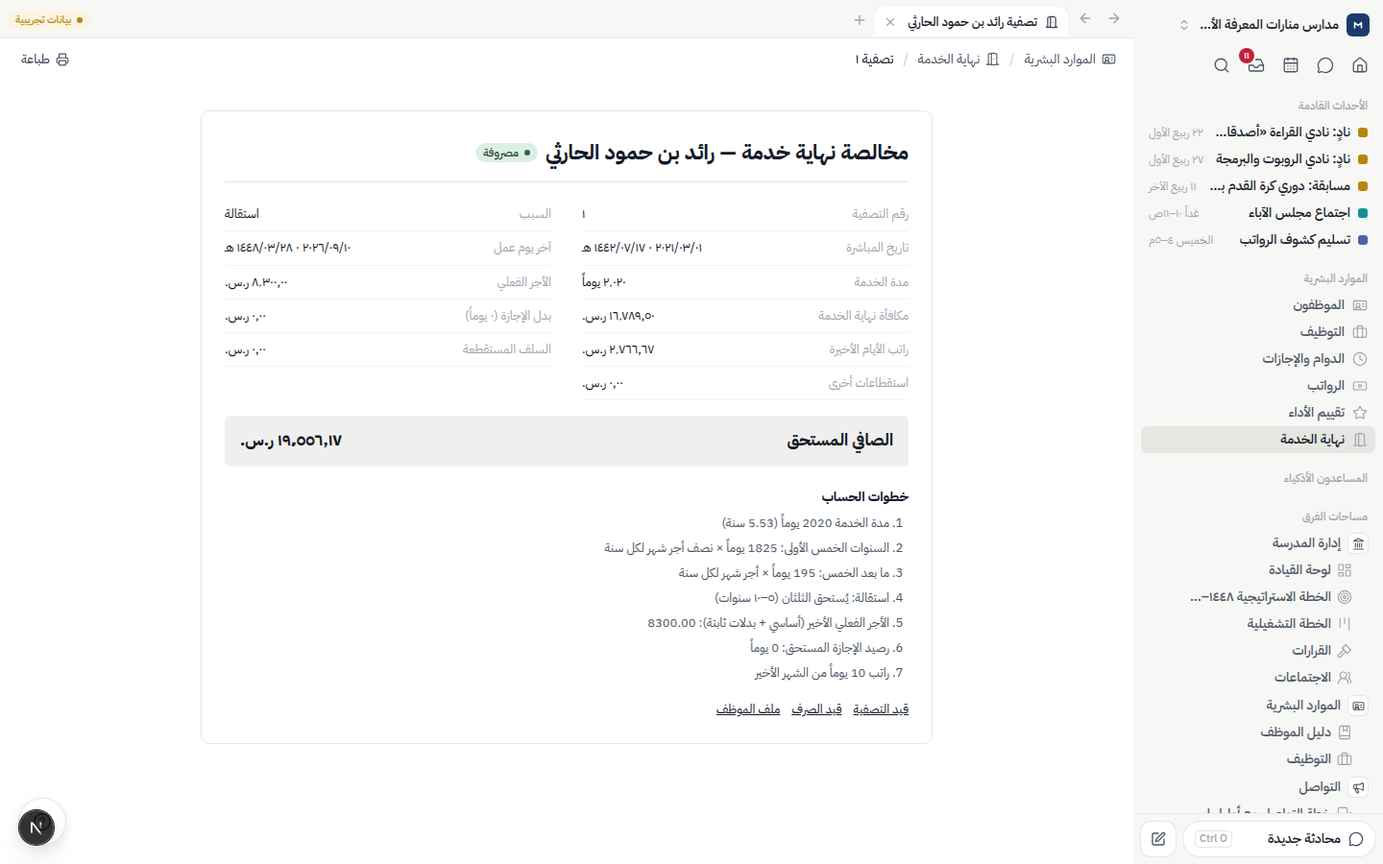
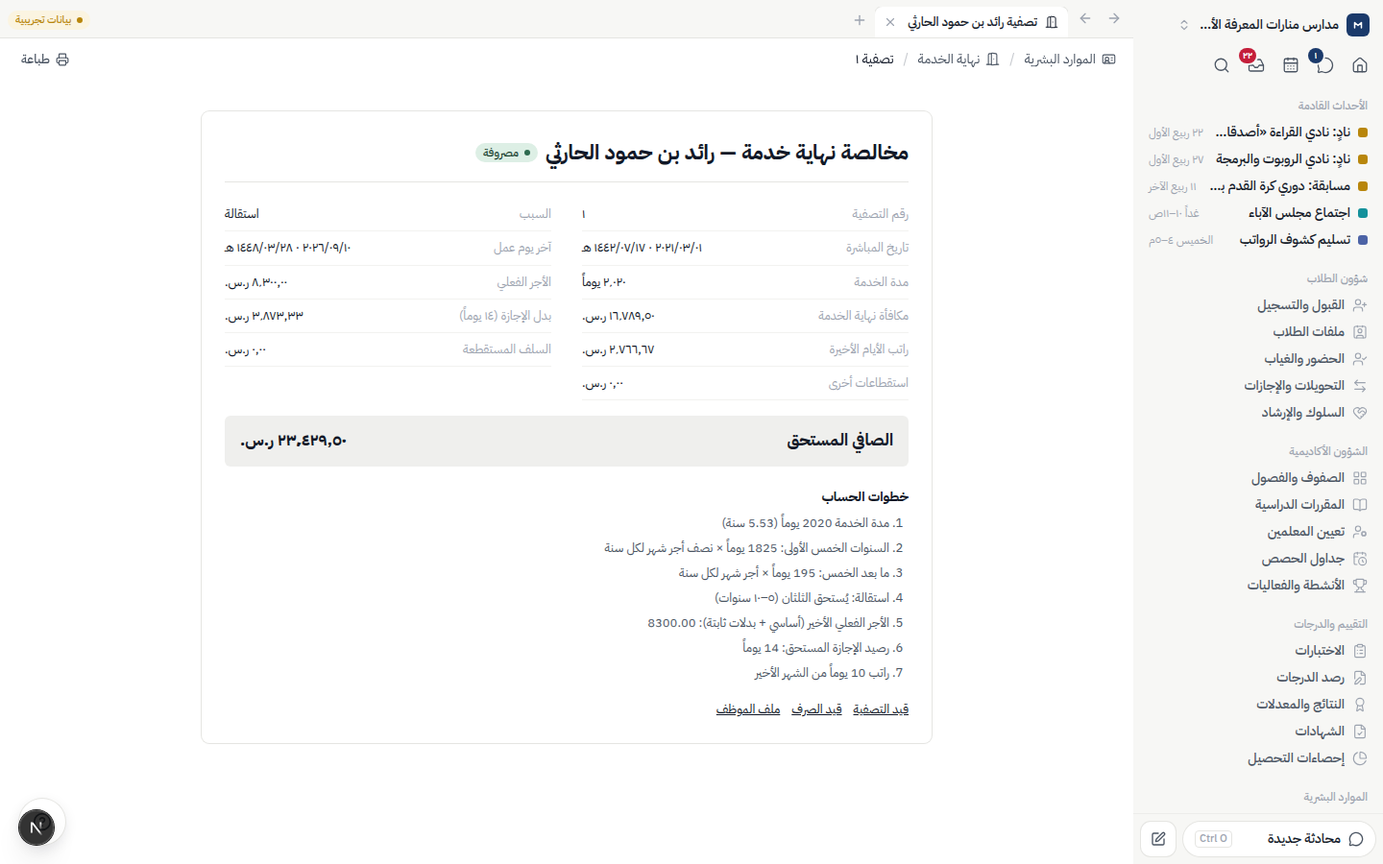
المرحلة ٤: تقرير التسليم واللقطات
Claude-Session: https://claude.ai/code/session_016W11eikQQRUvtjRF9kJ5h5

diff --git a/docs/PHASE4-REPORT.md b/docs/PHASE4-REPORT.md
@@ -1,0 +1,193 @@
+# تقرير تسليم المرحلة ٤ — التقييم والموارد البشرية والرواتب
+
+وفق صيغة التسليم في الجزء ١٧. التاريخ: ٢٩ سبتمبر ٢٠٢٦.
+
+**قواعد التكامل الثلاث المطلوبة:**
+
+| القاعدة | الحالة | الدليل |
+|---|:-:|---|
+| اعتماد الدرجات ← النشر في الموعد المحدد ← الحجب عند المديونية | ✅ | `tests/integration/phase4.test.ts` (الاختبار الثاني) و`tests/e2e/phase4.spec.ts` |
+| اعتماد المسير ← قيد محاسبي ← ملف البنك ← القسائم | ✅ | اختبار «المسير» في التكامل وE2E |
+| ترك الموظف ← تسوية الإجازة والمستحقات ← إيقاف الحساب ← إعادة إسناد المهام | ✅ | اختبار «نهاية الخدمة» في التكامل |
+
+## ١. ما بُني وما لم يُبنَ
+
+تظهر في الشريط الجانبي مجموعتان جديدتان حسب الصلاحية:
+- **«التقييم والدرجات»:** الاختبارات، رصد الدرجات، النتائج والمعدلات، الشهادات، إحصاءات التحصيل. ولولي الأمر والطالب «النتائج والشهادات» فقط.
+- **«الموارد البشرية»:** الموظفون، التوظيف، الدوام والإجازات، الرواتب، تقييم الأداء، نهاية الخدمة. ولكل موظف «خدماتي الوظيفية».
+
+### ضمانات مفروضة في قاعدة البيانات
+
+| الضمان | كيف |
+|---|---|
+| **الدرجة المعتمدة مقفلة** | مشغّل على جدول الدرجات يرفض الإضافة والتعديل والحذف لأي بند معتمد، حتى من العميل الجذري. التعديل الوحيد الممكن عبر «طلب تعديل» يعتمده المدير، فيُطبَّق في معاملة تفتح القفل لها وحدها، ويُسجَّل في التدقيق بإجراء OVERRIDE مع القيمتين القديمة والجديدة. |
+| **الدرجة ضمن حدودها** | مشغّل يرفض درجة سالبة أو أعلى من العظمى، إضافة إلى التحقق الفوري في الواجهة والخدمة. |
+| **لا مبالغ سالبة في الرواتب والعقود** | قيود CHECK على سطور المسير والعقود. |
+| **لا float** | الدرجات بالأعشار، والنسب بنقاط الأساس، والمبالغ بالهللة، والإضافي بالدقائق. كلها بعمليات صحيحة وتقريب نصف للأعلى. |
+| **القيود من المحرك** | قيود الرواتب والسلف ونهاية الخدمة كلها عبر محرك القيود من المرحلة ٣، فتبقى متوازنة وغير قابلة للتعديل وتحترم الفترات المقفلة. |
+
+### التقييم (الأجزاء ١١–١٥)
+
+| القسم | ما يعمل |
+|---|---|
+| **الاختبارات** | دورات اختبار (يومي، شهري، منتصف فصل، نهائي) لصفوف وفرع، تغذي مكوّن التقييم المقابل. **جدولة تلقائية** من خطة كل صف: المواد الثقيلة أولاً، مع استبعاد مواد النشاط، وجلستان يومياً إن زادت المواد عن الأيام. **لجان تلقائية** تملأ القاعات حسب سعتها، **بتوزيع متداخل للصفوف** (لا يتجاور طالبان من صف واحد)، وأرقام جلوس، ومراقبين بالتناوب يصلهم إشعار. تعديل اللجنة (القاعة والمراقبون). كشف اللجنة للطباعة. **محضر المراقبة** للغياب والمخالفات، ولا يرفعه إلا مراقبو اللجنة أو الإدارة. **توليد كشوف الرصد** من الجلسة لكل فصل بمعلم مادته، مع تعبئة «غائب» آلياً من المحاضر. |
+| **رصد الدرجات** | كشف (فصل × مادة × فصل دراسي) بجدول **كالإكسل**: الأسهم وEnter للتنقل، **لصق كتلة من Excel**، و«غ» للغائب و«ع» للغياب بعذر، مع **تحقق فوري** من العظمى (الخلية تحمر وتشرح)، وحفظ تلقائي بعد توقف الكتابة. درجة المادة تُحسب حيّة. تصدير CSV. **مسار الاعتماد:** المعلم يرسل (لا إرسال قبل اكتمال الرصد) ← رئيس القسم يراجع ← الوكيل يعتمد فيُقفل البند، أو يُعاد للمعلم بسبب مكتوب. «بانتظار قراري» لرئيس القسم والوكيل. **طلب تعديل** درجة معتمدة يُعتمد من المدير، أو من الوكيل إن كان المدير هو الطالب. **تحليل البند:** المتوسط، الوسيط، الانحراف، معامل السهولة، معامل التمييز (أعلى ٢٧٪ مقابل أدنى ٢٧٪)، والمدرج التكراري. |
+| **المعدلات** | نظام تقييم لكل مرحلة (أو افتراضي): مكونات بأوزان مجموعها ١٠٠، وتقديرات بحدودها ونقاطها، ودرجة النجاح، وأقصى مواد للدور الثاني، وطريقة العرض (نسبة، حروف، نقاط). درجة المادة متوسط موزون للمكونات، والمكوّن غير المرصود يُعاد توزيع وزنه ويُعلَّم «ناقصاً». **فصلي وتراكمي** للعام، والنتيجة: ناجح، دور ثانٍ، راسب، غير مكتمل. **الترتيب** تنافسي (١، ٢، ٢، ٤) على الفصل والصف والمدرسة. خيار «المعتمد فقط». |
+| **الشهادات** | **مصمم قوالب بالسحب:** ترتيب الكتل وإظهارها (الترويسة، بيانات الطالب، الدرجات، المكونات، الملخص، الحضور، الملاحظات، التواقيع والختم برفع صورة، رمز التحقق) مع معاينة حيّة. **إصدار جماعي** للفصل، لا يتم إلا بعد اعتماد كل الدرجات، بلقطة ثابتة ورمز تحقق فريد. نوعان: «شهادة نهاية الفصل» و«تقرير متابعة» أثناء الفصل. **طباعة جماعية**، كل شهادة في صفحة، و«حفظ PDF» من المتصفح. **رمز QR** يفتح صفحة تحقق عامة بلا دخول وبأقل البيانات. **النشر:** المدير يحدد تاريخ الإتاحة (مع إشعار الأسر). قبله يرى ولي الأمر «تُتاح في…»، وبعده يراها، إلا من عليه **مستحقات متأخرة** مع تفعيل الحجب، فتظهر «محجوبة» مع رابط الفواتير. |
+| **الإحصاءات** | توزيع التقديرات، المدرج التكراري للمعدلات، مقارنة الفصول والمواد (رسم وجدول بديل)، مقارنة المعلمين، الطلاب المتعثرون (حد قابل للضبط أو رسوب في مادة)، والمتفوقون. تصفية بالصف والفرع. |
+
+### الموارد البشرية والرواتب (الأجزاء ١٦–٢٠)
+
+| القسم | ما يعمل |
+|---|---|
+| **ملف الموظف** | البيانات الشخصية، والهوية/الإقامة **مشفّرة** ببصمة بحث (فحص التكرار وصيغة ١/٢). المؤهلات، البنك، و**الآيبان بفحص MOD-97**. الكفيل، الوردية، التأمينات. العقد وهيكل الراتب (العقد الجديد يُنهي السابق ويبقى السجل). أرصدة الإجازات، حضور الشهر، السلف، التقييمات، القسائم. ربط بحساب الدخول. الراتب والآيبان يظهران لموظفي الرواتب وللموظف نفسه فقط. |
+| **الهيكل التنظيمي** | شجرة أقسام بفئة (تعليمية/إدارية/خدمات، تحدد حساب مصروف الرواتب)، ومركز تكلفة، ورئيس قسم، ومسميات بشواغرها (المشغول/المعتمد). **مخطط الارتباط الإداري** شجرة قابلة للطي، مع منع الحلقات. |
+| **تنبيهات الوثائق** | الهويات والإقامات والجوازات والعقود المنتهية أو القريبة (مهلة قابلة للضبط). تنبيه يومي للموارد البشرية من `POST /api/cron/hr`. |
+| **التوظيف** | وظائف شاغرة، و**لوحة كانبان** للمرشحين بالسحب (تقديم ← فرز ← مقابلة ← عرض ← تعيين/استبعاد). تقييم بالنجوم، موعد المقابلة، الراتب المعروض. **التعيين** ينشئ ملف الموظف وعقده (مع فترة تجربة ٩٠ يوماً)، ويغلق الوظيفة عند اكتمال شواغرها. |
+| **الدوام** | ورديات بأيام العمل ومهلة السماح. حضور اليوم بتعديل مباشر، وتحضير الباقين. **استيراد ملف البصمة CSV** مع احتساب التأخر والإضافي من الوردية. تسجيل ذاتي للحضور والانصراف. سجل شهري بالرموز مع مجاميع الغياب والتأخر والإجازات. |
+| **الإجازات** | ٨ أنواع افتراضية (سنوية، مرضية، اضطرارية، زواج، وفاة، وضع، حج، بدون راتب) قابلة للتعديل. **الأرصدة السنوية آلياً:** السنوية ٢١ يوماً و٣٠ بعد خمس سنوات، مع ترحيل. الطلب يحتسب أيام العمل فقط، ويمنع التداخل وتجاوز الرصيد. الموافقة من **المدير المباشر ثم الموارد البشرية**. عند الاعتماد يُخصم الرصيد وتُسجَّل الأيام «في إجازة». الإلغاء يعيد الرصيد. **غير المدفوعة تُخصم في المسير.** |
+| **الرواتب** | **مسير شهري:** مسودة ← إعادة احتساب ← رفع ← مراجعة مدير الموارد البشرية ← اعتماد المدير ← **قيد آلي** ← صرف. الاحتساب: الأساسي والبدلات (مع الاستحقاق الجزئي لمن عُيّن أثناء الشهر)، والإضافي، والمكافآت، و**التأمينات** (حصة الموظف السعودي ومنشأته، وحصة المنشأة عن غير السعودي، بسقف)، والغياب والإجازة غير المدفوعة بأجر اليوم، والتأخر بعد مهلة شهرية، وأقساط السلف والجزاءات **بسقف نصف الأجر**، و**مخصص نهاية الخدمة** الشهري. **القيد:** مدين رواتب الفئة ومركز التكلفة، والبدلات والتأمينات والمخصص؛ دائن رواتب مستحقة، وتأمينات مستحقة، وذمم الموظفين، ومخصص نهاية الخدمة. **الصرف:** قيد البنك. **ملف حماية الأجور** CSV. **قسيمة الراتب** مطبوعة للموظف نفسه بعد الاعتماد. **السلف:** طلب ← اعتماد ← صرف بقيد، ثم الاستقطاع التلقائي. **البنود المتغيرة:** مكافأة، بدل، إضافي بالساعات، جزاء، استقطاع، وتُقفل بعد رفع المسير. |
+| **تقييم الأداء** | نماذج بمعايير موزونة، ودورات تُنشئ تقييماً لكل موظف نشط يقيّمه مديره المباشر. تقييم ذاتي بالأهداف ونسب إنجازها، ثم اعتماد المدير (١–٥ ← نسبة وتقدير). الموظف لا يرى درجات مديره قبل الاعتماد. توزيع التقديرات للدورة وإغلاقها. |
+| **نهاية الخدمة** | **حاسبة** قبل الحفظ بخطواتها: المكافأة (المادتان ٨٤ و٨٥)، بدل رصيد الإجازة المستحق حتى آخر يوم، راتب الأيام الأخيرة إن لم يشملها مسير، ناقص السلف والعهد (بسقف المستحقات). الاعتماد من الموارد البشرية ثم المدير، ثم قيد يأخذ من **المخصص أولاً** والباقي مصروف، ثم **إنهاء الخدمة**: حالة الموظف، العقد، **إيقاف حساب الدخول وإبطال جلساته**، و**إعادة إسناد** مواد التدريس وريادة الفصول وخطوات الموافقة المعلقة والمهام للمدير المباشر، مع سجل تدقيق. الصرف بقيد بنك، ومخالصة مطبوعة. لوحة **الالتزام الحالي مقابل المخصص في الدفاتر**. |
+| **الخدمة الذاتية** | لكل موظف: تسجيل الحضور والانصراف، أرصدة الإجازات وطلبها وإلغاء المعلّق، ملخص الشهر، قسائم الراتب، وطلب سلفة. |
+
+### ما لم يُبنَ أو يعمل بحدود (بصراحة)
+
+| البند | الوضع الحالي |
+|---|---|
+| **ملف حماية الأجور** | CSV بحقول عامة (الهوية، الاسم، الآيبان، رمز البنك، الأساسي، السكن، البدلات، الاستقطاعات، الصافي). لكل بنك صيغة SIF خاصة. يلزم تحديد بنككم لمطابقة صيغته. |
+| **الربط مع «مدد» و«التأمينات» و«قوى» و«مقيم»** | لا ربط مباشر. التأمينات تُحتسب بالنسب المضبوطة، والوثائق تُدخل يدوياً. |
+| **جهاز البصمة** | استيراد ملف CSV فقط، دون ربط مباشر بالجهاز. |
+| **الإضافي من البصمة** | يُسجَّل للاسترشاد فقط. الذي يدخل الراتب هو الساعات المعتمدة في «البنود المتغيرة»، قرار مقصود حتى لا يُصرف إضافي غير معتمد. |
+| **الغياب في الراتب** | تُخصم أيام «غائب» المسجلة صراحة فقط. اليوم بلا سجل لا يُعدّ غياباً. |
+| **العطل الرسمية** | لا تقويم عطل مرتبط بالدوام أو الجدولة. تُسجَّل العطلة يدوياً (كما في اليوم الوطني بالبيانات)، والجدولة التلقائية لا تتجنبها. |
+| **PDF** | الشهادات والقسائم والمخالصة تُطبع من المتصفح («حفظ PDF»)، دون توليد على الخادم ولا إرسال بالبريد. |
+| **أغسطس** | مقفل محاسبياً منذ المرحلة ٣، فراتبه قيد إجمالي من «النظام السابق». أول مسير على المنصة هو سبتمبر. |
+| **النتيجة التراكمية** | متوسط متساوٍ للفصول، دون أوزان مختلفة للفصول. |
+| **الدور الثاني** | تُحدَّد النتيجة، ولا توجد شاشة لاختبارات الدور الثاني ورصدها بعد. |
+| **ترقية الراسبين عند إنهاء العام** | الخدمة تقترح الراسبين (`retainSuggestions`)، ولم تُربط بعد بمعالج إنهاء العام من المرحلة ٢. |
+| **بطاقة المقعد** | يوجد كشف اللجنة للطباعة، دون ملصقات مقاعد منفصلة. |
+
+## ٢. التشغيل والبيانات التجريبية
+
+خطوات التشغيل كما في [README.md](../README.md): `npm run db:deploy` ثم `npm run db:seed` ثم `npm run dev`.
+- أُضيف ترحيلان: `20261001090000_phase4_assessment_hr_payroll` (الجداول ومشغّلات القفل والحدود) و`20261001100000_payroll_journal_sources`.
+- المهمة اليومية للموارد البشرية: `POST /api/cron/hr` مع `Authorization: Bearer $CRON_SECRET`.
+
+**الحسابات وكلمة المرور:** كلمة المرور لكل الحسابات `Manassa@2026`، والرمز الثنائي من `npm run demo:totp`.
+
+| الحساب | ما يجربه |
+|---|---|
+| `teacher@demo.manassa.sa` | معلم رياضيات ورئيس قسمها: كشوفه (منها اختبار قصير مسودة ليرصده)، وكشفان «بانتظار قراره» كرئيس قسم، و«خدماتي الوظيفية» (لم يسجل حضور اليوم ليجربه)، وقسيمة سبتمبر، وإجازة معلّقة عند مديره. |
+| `vp.academic@demo.manassa.sa` | وكيلة البنات: اعتماد درجات فرعها (بعضها بانتظارها)، والنتائج، والإحصاءات، وموافقات إجازات معلمات البنات. |
+| `principal@demo.manassa.sa` (ثنائية) | اعتماد درجات البنين، وطلب تعديل درجة معلّق، والشهادات والقوالب والنشر، والاختبارات واللجان، والموافقات النهائية للمسير ونهاية الخدمة. |
+| `hr.manager@demo.manassa.sa` (ثنائية) | كل الموارد البشرية والرواتب، وموافقات الإجازات والسلف وتصفية معلّقة. |
+| `hr@demo.manassa.sa` | إدخال الموظفين والحضور والبنود والمسيرات، دون اعتماد. |
+| `accountant@demo.manassa.sa` (ثنائية) | قيد مسير سبتمبر في دفتر اليومية، وإشعار «بانتظار الصرف». |
+| `parent@demo.manassa.sa` | أسرة «القرني»: تقريرا متابعة متاحان، وثالث **محجوب** لأن على الابن مستحقات متأخرة. |
+
+**البيانات** (وهمية، ومولَّدة **عبر الخدمات نفسها**، فكل موافقة وقيد فيها مرّ بالمسار الحقيقي):
+
+| البند | العدد |
+|---|---|
+| الهيكل | ٩ أقسام بشجرة و١٨ مسمى، ووردیتان |
+| الموظفون | ٥٧ نشطاً (٤٦ سعودياً)، بينهم معلمون متعاقدون وسائقون وحراس وعمال نظافة بلا حسابات دخول. العقود والآيبانات صالحة، و٥ وثائق منتهية أو قريبة الانتهاء |
+| التوظيف | ٣ وظائف (واحدة معلّقة) و١٠ مرشحين بالمراحل، وتعيين فعلي في ١٤ سبتمبر بعقد وآيبان |
+| الحضور | سبتمبر كاملاً مستورداً من «البصمة»: نحو ١١٠٠ سجل، منها ١٩ غياباً و٣٨ تأخراً، واليوم الوطني عطلة |
+| الإجازات | ٦ طلبات: ٣ معتمدة (منها بدون راتب تُخصم)، واحدة عند الموارد البشرية، واثنتان عند المدير المباشر |
+| السلف والبنود | سلفة معتمدة مصروفة بقيد يُستقطع قسطها، وسلفة بانتظار الاعتماد. ٦ بنود متغيرة (مكافآت، بدل، ١٠ ساعات إضافي، جزاء، استقطاع عهدة) |
+| مسير سبتمبر | ٥٧ موظفاً: إجمالي ٥١٤٬١٩٥ ر.س، صافٍ ٤٦٦٬٨٤٨ ر.س. مرّ بالمراجعة والاعتماد وله قيد آلي متوازن، وبانتظار صرف المحاسب |
+| نهاية الخدمة | استقالة معتمدة ومصروفة (أُوقف حساب صاحبها وأُعيد إسناد مهامه)، وانتهاء عقد بانتظار الاعتماد |
+| الأداء | دورة سنوية سابقة مكتملة ومغلقة، ودورة جارية (تقييمات ذاتية ويُكمل المديرون بعضها) |
+| الاختبارات | «اختبارات الفترة الأولى»: ٩٩ جلسة، ١٧ لجنة، ٢٨٩ رقم جلوس، ومحاضر مراقبة بغياب ومخالفات |
+| الدرجات | نحو ٩٧٠ بند تقييم بدرجات كل الطلاب. ٩٤٪ معتمدة، والبقية موزعة بين مسودة ومرسلة ومراجعة. طلب تعديل مطبّق (OVERRIDE في التدقيق) وآخر معلّق |
+| الشهادات | ١٦ فصلاً بتقارير متابعة، منشورة للأسر مع حجب المتأخرين |
+
+## ٣. الشاشات مقابل قائمة الجزء ١٤
+
+| البند | الحالة | الدليل |
+|---|:-:|---|
+| الاتجاه RTL والأيقونات | ✅ | كل اللقطات |
+| الألوان من المتغيرات فقط | ✅ | الحالات من لوحة الوسوم، والرسوم من `--chart-1/2`، والتحذير والخطر من رموزها |
+| كل قائمة: بحث، تصفية، فارغ، تحميل، خطأ | ✅ | الموظفون بحث وتصفية بالحالة والفئة. الكشوف والنتائج والإحصاءات بتصفية الفصل والصف والفرع والفترة. كل شاشة لها حالة فارغة بإرشاد وهيكل تحميل ورسالة صلاحية |
+| لا شاشات فارغة ولا أزرار ميتة | ✅ | كل زر يعمل. حالات «لم يُحدد النشر» و«لا عقد» و«حسابك غير مرتبط بملف موظف» مشروحة |
+| الوضع الداكن | ✅ | [25](screenshots/phase4/25-payroll-run-dark.png) [35](screenshots/phase4/35-stats-dark.png) |
+| الجوال | ✅ | [24](screenshots/phase4/24-employees-mobile.png) [36](screenshots/phase4/36-results-mobile.png). الجداول العريضة (الرصد، المسير، السجل الشهري) تتمرر داخل إطارها عمداً، مع تثبيت عمود الطالب |
+| الأرقام والتواريخ بتفضيل المستخدم | ✅ | الدرجات والنسب والمبالغ بتفضيل الأرقام، والتواريخ بالهجري مع الميلادي |
+| إمكانية الوصول | ✅ | الجدول `role=grid` وتسمية كل خلية (الطالب — البند)، و`aria-invalid` للقيمة الخاطئة، وحالة الحفظ بإعلان حيّ، والتقييم بالنجوم وسلّم ١–٥ مجموعات راديو، وبديل جدولي لكل رسم |
+
+اللقطات (`docs/screenshots/phase4/`):
+1. [كشوف الرصد وبانتظار قراري](screenshots/phase4/01-grade-sheets.png)
+2. [جدول الرصد](screenshots/phase4/02-grade-grid.png)
+3. [الاختبارات](screenshots/phase4/03-exams.png)
+4. [خدماتي الوظيفية](screenshots/phase4/04-self-service.png)
+5. [قسيمة الراتب](screenshots/phase4/05-payslip.png)
+6. [الموظفون](screenshots/phase4/06-employees.png)
+7. [ملف الموظف](screenshots/phase4/07-employee-profile.png)
+8. [مخطط الارتباط الإداري](screenshots/phase4/08-org-chart.png)
+9. [تنبيهات الوثائق](screenshots/phase4/09-document-alerts.png)
+10. [لوحة التوظيف](screenshots/phase4/10-recruitment-kanban.png)
+11. [حضور اليوم](screenshots/phase4/11-staff-attendance.png)
+12. [السجل الشهري](screenshots/phase4/12-attendance-month.png)
+13. [طلبات الإجازة](screenshots/phase4/13-leave-requests.png)
+14. [المسيرات](screenshots/phase4/14-payroll-runs.png)
+15. [مسير سبتمبر](screenshots/phase4/15-payroll-run.png)
+16. [البنود المتغيرة](screenshots/phase4/16-payroll-adjustments.png)
+17. [السلف](screenshots/phase4/17-loans.png)
+18. [إعدادات الرواتب](screenshots/phase4/18-payroll-settings.png)
+19. [الورديات وأنواع الإجازات](screenshots/phase4/19-shifts-leave-types.png)
+20. [تقييم الأداء](screenshots/phase4/20-performance.png)
+21. [دورة تقييم](screenshots/phase4/21-review-cycle.png)
+22. [نهاية الخدمة](screenshots/phase4/22-end-of-service.png)
+23. [مخالصة نهاية خدمة](screenshots/phase4/23-eos-settlement.png)
+24. [الموظفون — جوال](screenshots/phase4/24-employees-mobile.png)
+25. [المسير — داكن](screenshots/phase4/25-payroll-run-dark.png)
+26. [جدول اختبار ولجانه](screenshots/phase4/26-exam-schedule.png)
+27. [كشف لجنة ومحاضرها](screenshots/phase4/27-committee-sheet.png)
+28. [كشف نتائج فصل](screenshots/phase4/28-section-results.png)
+29. [نظام التقييم](screenshots/phase4/29-grading-scheme.png)
+30. [رؤساء الأقسام والإعدادات](screenshots/phase4/30-assessment-settings.png)
+31. [إصدار الشهادات ونشرها](screenshots/phase4/31-report-cards.png)
+32. [مصمم قوالب الشهادة](screenshots/phase4/32-card-templates.png)
+33. [طباعة الشهادات](screenshots/phase4/33-report-card-print.png)
+34. [إحصاءات التحصيل](screenshots/phase4/34-achievement-stats.png)
+35. [الإحصاءات — داكن](screenshots/phase4/35-stats-dark.png)
+36. [النتائج — جوال](screenshots/phase4/36-results-mobile.png)
+37. [نتائج ولي الأمر (متاحة ومحجوبة)](screenshots/phase4/37-parent-results.png)
+38. [صفحة التحقق العامة](screenshots/phase4/38-verify-card.png)
+
+## ٤. نتائج الاختبارات
+
+| المجموعة | النتيجة | الجديد في المرحلة ٤ |
+|---|---|---|
+| `npm run test:unit` | ✅ ١١١/١١١ | **التقييم (٩):** نسب المكونات، الغياب بعذر وبغيره، الوزن المعاد توزيعه، حدود التقديرات، النتائج الأربع، الترتيب التنافسي، تحليل الدرجة المدخلة بالأرقام العربية، التحقق من نظام التقييم. **الموارد البشرية (١٢):** نهاية الخدمة بكل أسبابها وكسور السنة، بدل الإجازة، المخصص الشهري، التأمينات للسعودي وغيره، الغياب والتأخر، الإضافي (م١٠٧)، سقف نصف الأجر، الاستحقاق الجزئي، أيام العمل، الآيبان |
+| `npm run test:integration` | ✅ ٣٥/٣٥ | **٧ جديدة على قاعدة حقيقية:** مسار اعتماد الدرجات والقفل الذي يرفض حتى العميل الجذري وطلب التعديل وتدقيقه؛ المعدلات والترتيب والدور الثاني والشهادات والتحقق والنشر والحجب بالمتأخر فقط وحصر ولي الأمر؛ الاختبارات (الجدولة، التداخل، المراقبون، صلاحية المحضر، تعبئة الغياب)؛ المسير كاملاً بأرقامه وقيده وسلفته وصرفه وملفه وقسيمته؛ الإجازة بموافقتيها والرصيد والخصم؛ نهاية الخدمة وإيقاف الحساب والجلسات وإعادة الإسناد؛ عزل المدارس والصلاحيات |
+| `npm run test:e2e` | ✅ ١٥/١٥ | ٤ جديدة: جدول الرصد (تحقق فوري، أسهم، لصق من Excel، حفظ تلقائي)؛ ولي الأمر (متاحة ومحجوبة) وصفحة التحقق العامة؛ الخدمة الذاتية (تسجيل الحضور والقسيمة)؛ مسير سبتمبر وتنزيل ملف حماية الأجور |
+| `npm run typecheck` | ✅ | |
+| `npm run lint` | ✅ ٠ أخطاء | التحذيران المعلوماتيان نفسهما من المرحلة ١ |
+
+اكتشفته المراجعة واللقطات والاختبارات وأُصلح:
+- **بدل الإجازة في نهاية الخدمة كان صفراً** لمن لم يُحتسب رصيد سنته بعد (الأرصدة تُنشأ عند الحاجة). صار الحساب ينشئ الاستحقاق أولاً. وكان ملف الموظف يعرض الأرصدة صفراً للسبب نفسه.
+- **الحجب كان يشمل الأقساط غير المستحقة بعد**، فيحجب شهادات أسر ملتزمة بخطط تقسيطها. صار الحجب للمتأخر فقط.
+- **حساب الإضافي كان يستخدم كسوراً عشرية** في المبلغ. صار بعمليات صحيحة على الدقائق.
+- **عقود تجريبية كانت تنتهي قبل سبتمبر** فيُستبعد أصحابها من المسير. صُححت البذور، ويُخرج المسير قائمة «بلا عقد» صريحة.
+- **الرصيد بعد خمس سنوات:** الاختبار توقع ٢١ يوماً، والنظام أعطى ٣٠ وهو الصحيح (م١٠٩)، فصُحح الاختبار.
+- **رواتب سبتمبر كانت قيداً إجمالياً في بذور المرحلة ٣**، فأُزيل ليحل محله المسير الحقيقي دون ازدواج.
+
+## ٥. افتراضات وقرارات تحتاج تأكيدك
+
+**نظام العمل والرواتب**
+1. **الأجر في مكافأة نهاية الخدمة وبدل الإجازة:** الأجر الفعلي الأخير (أساسي + كل البدلات الثابتة) وفق تعريف «الأجر الفعلي» في النظام. بعض المنشآت تعتمد الأساسي + السكن فقط. أيهما عندكم؟
+2. **الاستقالة (م٨٥):** لا شيء قبل سنتين، ثلث من ٢–٥، ثلثان من ٥–١٠، كاملة بعد ١٠. انتهاء العقد والإنهاء من صاحب العمل والتقاعد والوفاة: كاملة. الفصل وفق م٨٠: لا مكافأة. السنة ٣٦٥ يوماً والكسور بنسبتها.
+3. **التأمينات:** للسعودي ٩٫٧٥٪ على الموظف و١١٫٧٥٪ على المنشأة، ولغير السعودي ٢٪ على المنشأة، على الأساسي + السكن بسقف ٤٥٬٠٠٠ ر.س. هذه نسب المسجلين قبل تعديلات ٢٠٢٤. نسب المسجلين الجدد بعد يوليو ٢٠٢٤ تتدرج سنوياً. النسب قابلة للتعديل من «إعدادات الرواتب»، **فأكدوا النسب المطبقة على منشأتكم**.
+4. **الإضافي (م١٠٧):** أجر الساعة الفعلي + ٥٠٪ من أجر الساعة الأساسي، بساعات يعتمدها المسؤول لا من البصمة مباشرة.
+5. **الخصومات:** أجر اليوم = الأجر الشهري ÷ ٣٠. التأخر يُخصم بالدقيقة بعد مهلة ٦٠ دقيقة شهرياً. السلف والجزاءات والاستقطاعات مجتمعة لا تتجاوز نصف الأجر (م٩٢).
+6. **الإجازة السنوية:** ٢١ يوماً، و٣٠ بعد خمس سنوات، مع ترحيل ١٠ أيام. **الجزاءات** تُخصم وتُقيَّد تخفيضاً لمصروف الرواتب. النظام يوجب إيداعها في صندوق للعمال، فهل لديكم حساب مخصص؟
+7. **مخصص نهاية الخدمة** يُكوَّن شهرياً مع المسير (نصف شهر أو شهر كامل ÷ ١٢ حسب سنة الخدمة). البديل: تسوية سنوية بحساب اكتواري.
+8. **ملف حماية الأجور:** ما بنك الرواتب لديكم؟ نطابق صيغة SIF الخاصة به.
+
+**التقييم**
+9. **الأوزان الافتراضية:** مشاركة ١٠، واجبات ١٠، اختبارات قصيرة ١٠، مشروع ١٠، منتصف الفصل ٢٠، نهائي ٤٠. النجاح ٥٠٪، ودور ثانٍ لثلاث مواد فأقل. التقديرات: ممتاز ٩٠، جيد جداً ٨٠، جيد ٧٠، مقبول ٥٠. هل تتبعون لائحة تقويم وزارية محددة لكل مرحلة؟
+10. **مسار الاعتماد:** معلم ← رئيس قسم (إن حُدد للمادة) ← وكيل الشؤون الأكاديمية للفرع أو المدير. تعديل الدرجة المعتمدة بموافقة المدير. هل تريدون خطوة إضافية لأي من ذلك؟
+11. **الحجب:** يشمل المستحقات المتأخرة فقط، لا الأقساط القادمة، ويُفعَّل لكل فصل عند تحديد النشر. هل تريدون حداً أدنى للمبلغ المتأخر؟
+12. **تقرير المتابعة** يُصدر أثناء الفصل بما اعتُمد حتى تاريخه، ولا يُظهر نتيجة نهائية. هل تُرسل تقارير المتابعة للأسر عندكم؟
